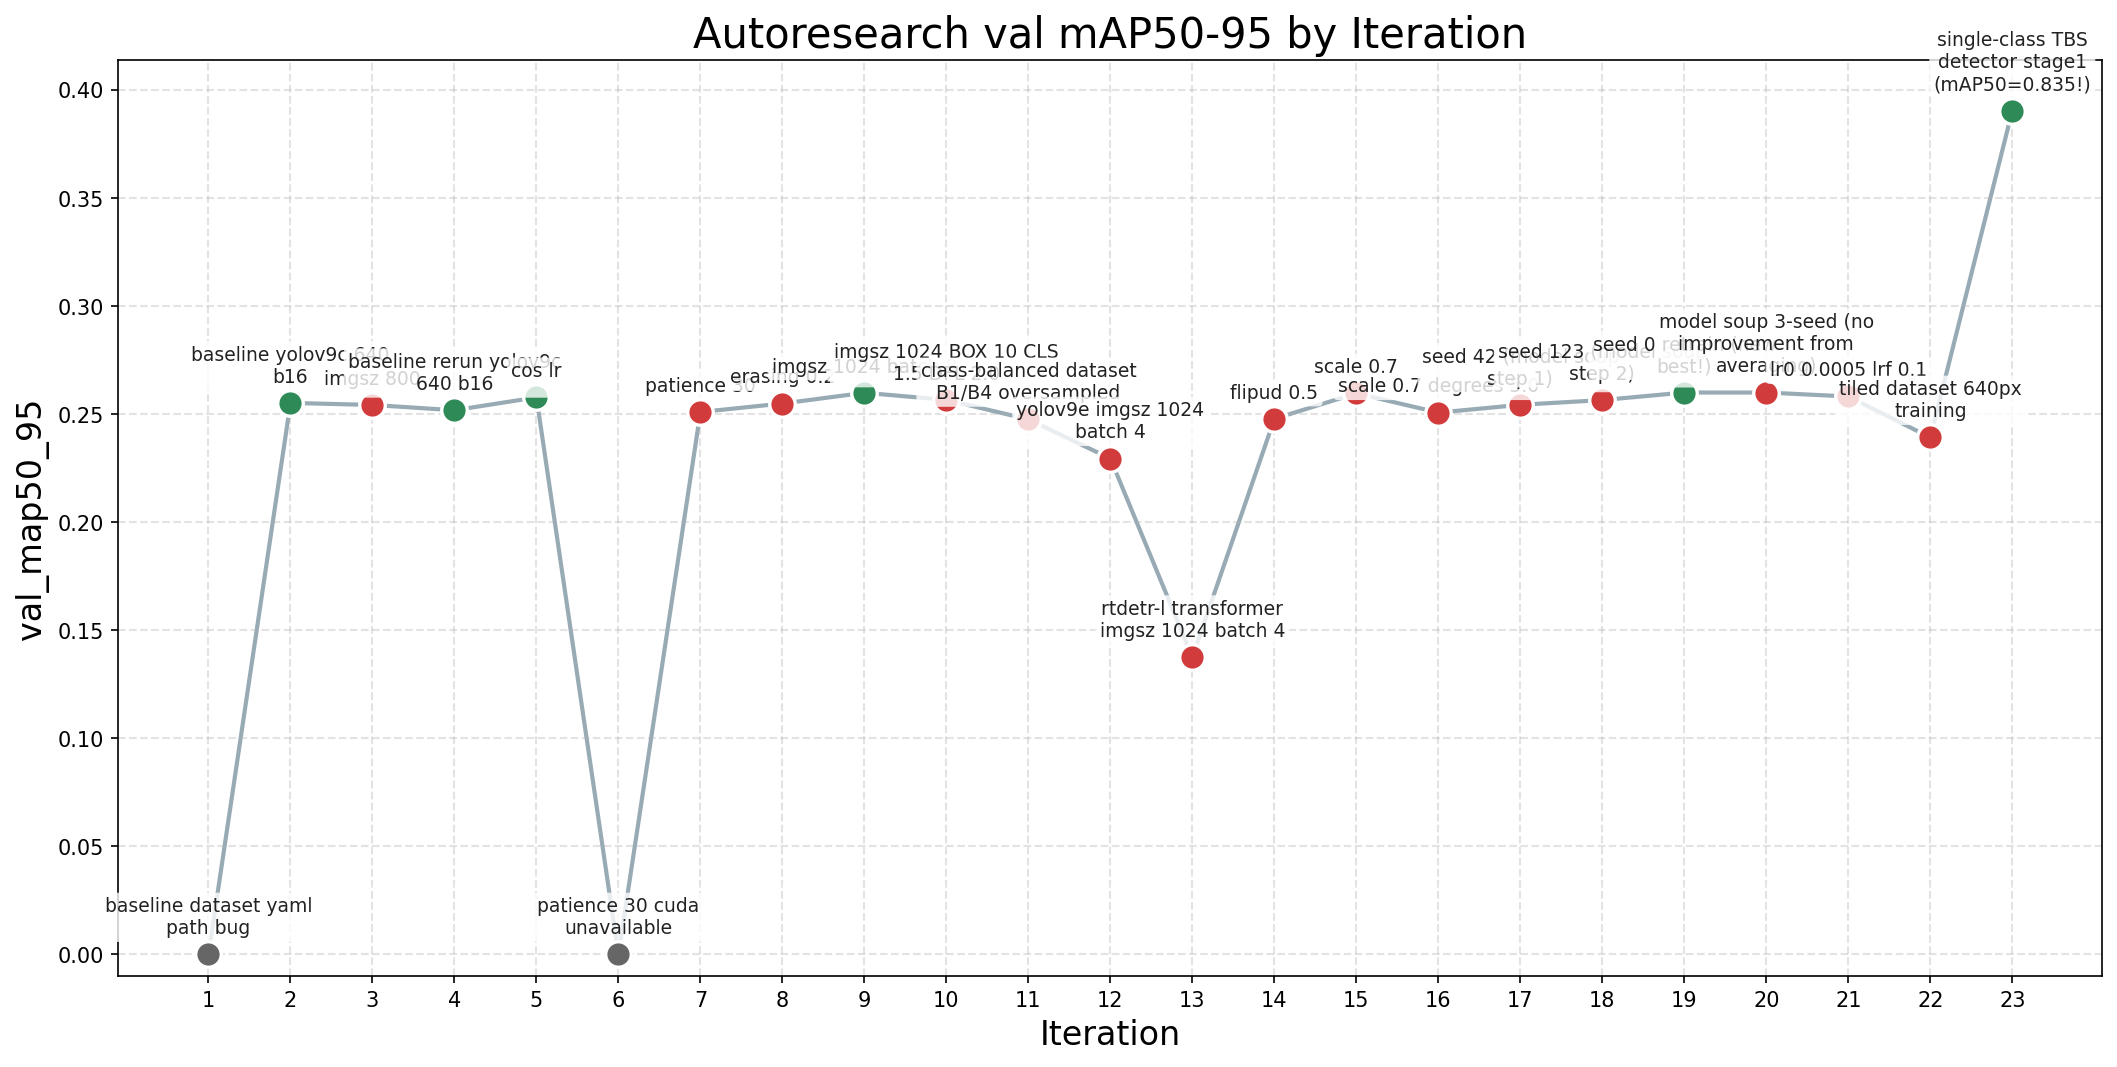
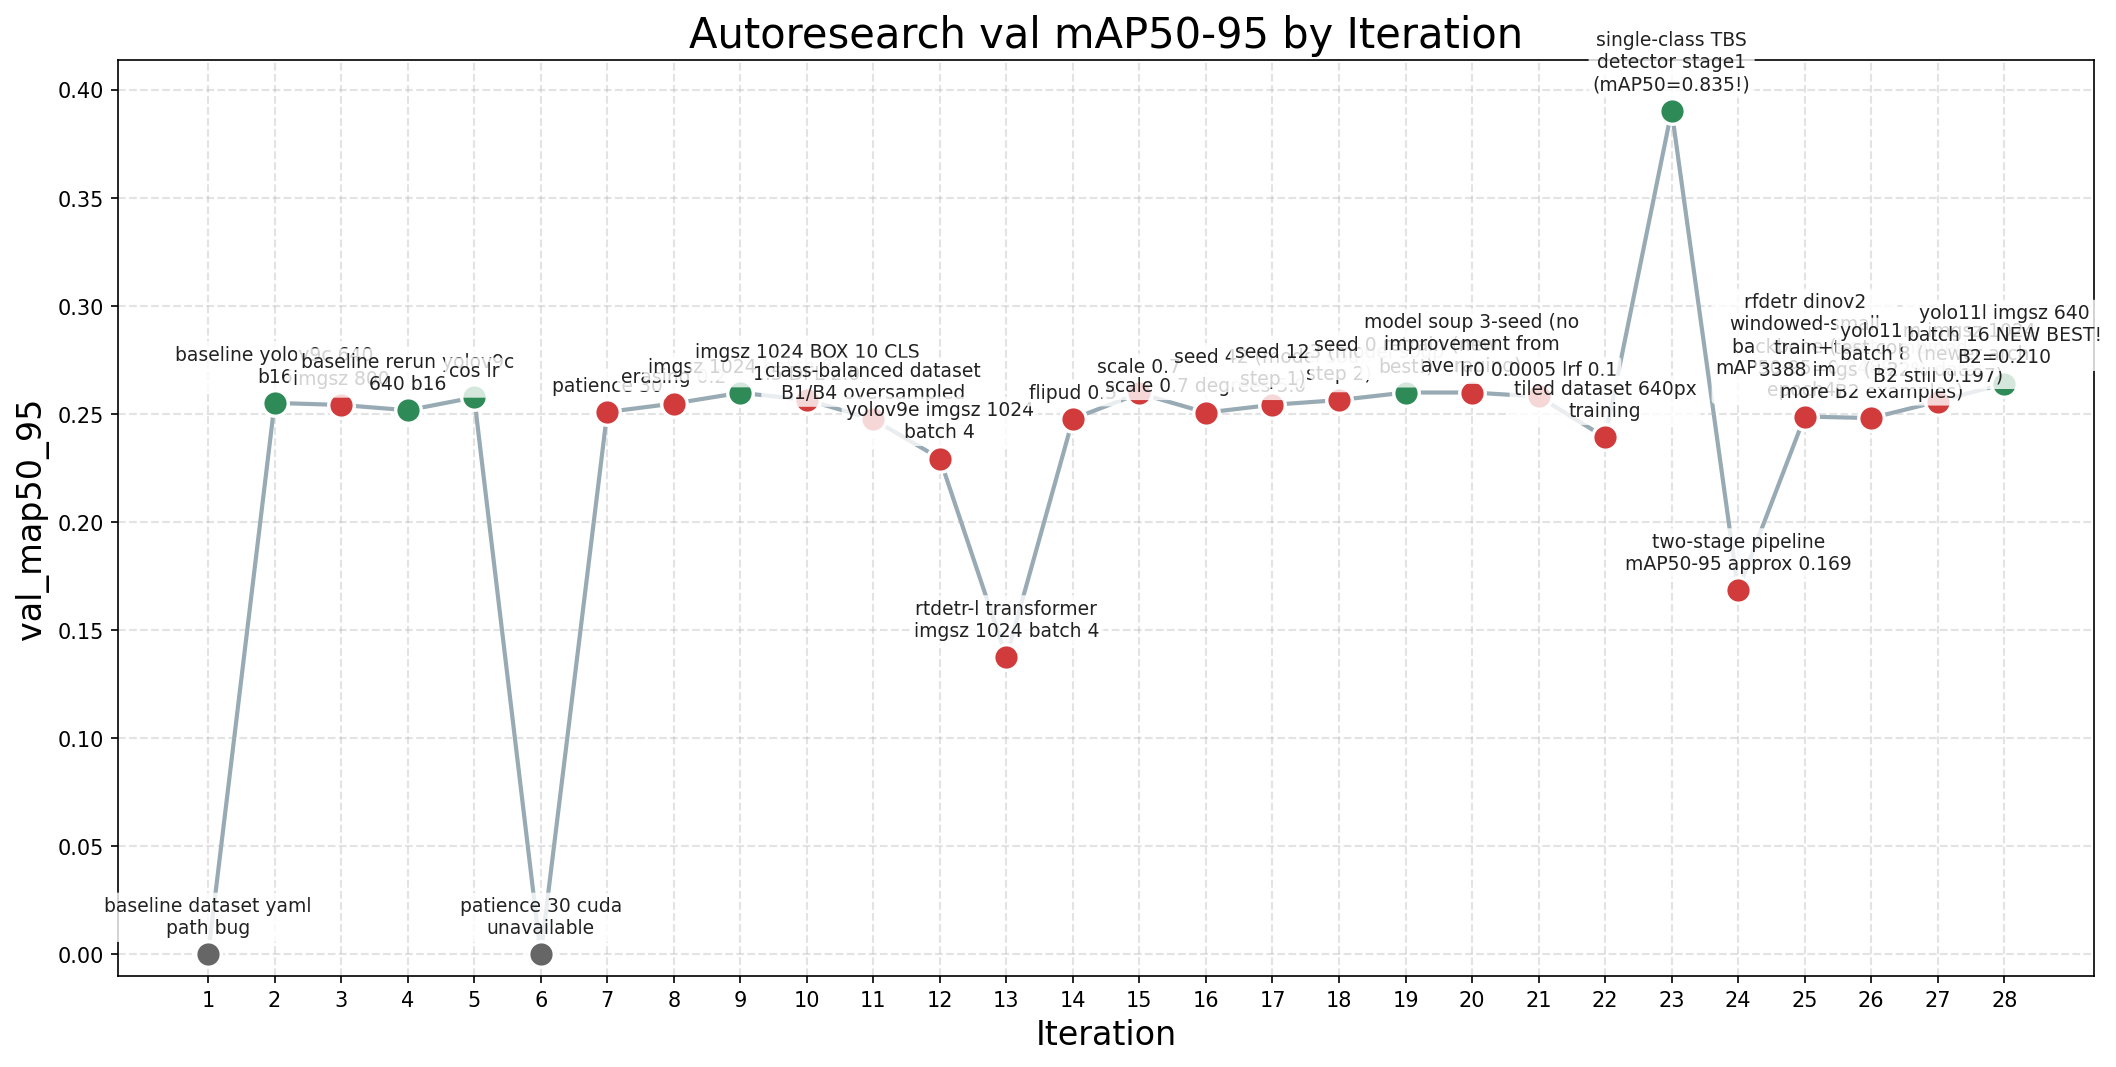
telemetry: record yolo11l new best 0.264147, update journal
Update results.tsv with correct commit hash and add detailed analysis
of experiments 10-12 to experiment-journal.md.

diff --git a/experiment-journal.md b/experiment-journal.md
@@ -211,7 +211,82 @@
 
 ---
 
-## Experiment 10 — PLAN: YOLOv9c with Ordinal Regression / Auxiliary Tasks
+## Experiment 10 — 2026-03-14 (Train+Test Combined Dataset)
+
+**Hypothesis**: Using all available labeled data (train+test, 3388 images) while holding val for evaluation should improve all classes by ~22% more examples. B2 specifically gains 85% more instances (1874→3463).
+
+**Change**: Dataset-TrainTest (symlinks, train+test→train, val unchanged)
+
+**Result**: val_map50_95=0.248169 (delta=-0.011834 from best 0.260003) — DISCARD
+
+**Per-class**:
+- B1: 0.418 (worse)
+- B2: 0.191 (no improvement despite 85% more B2 examples!)
+- B3: 0.251 (worse)
+- B4: 0.132 (worse)
+
+**Analysis**: More data hurt because fewer epochs in the 20-minute budget. With 3388 images at imgsz=1024 batch=8, we get fewer gradient updates per time budget. The per-image learning signal is the same, but total training steps decrease. B2 did NOT improve even with 85% more examples — confirming that the B2/B3 confusion is NOT a data quantity problem but a fundamental visual ambiguity.
+
+**Key finding**: Simply adding more labeled data does NOT help within a fixed time budget when training at high resolution.
+
+---
+
+## Experiment 11 — 2026-03-15 (YOLO11m, newer architecture)
+
+**Hypothesis**: YOLO11m (Ultralytics' newest model family, C3K2 architecture released 2024) may have better feature extraction than YOLOv9c due to architectural improvements, achieving better B2/B3 disambiguation with same or fewer parameters.
+
+**Change**: MODEL=yolo11m.pt (38.8M params), imgsz=1024, batch=8
+
+**Result**: val_map50_95=0.255829 (delta=-0.004174 from best 0.260003) — DISCARD
+
+**Per-class**:
+- B1: 0.427 (slightly worse)
+- B2: 0.197 (essentially identical to every other run!)
+- B3: 0.259 (slightly worse)
+- B4: 0.140 (same)
+
+**Analysis**: YOLO11m is NOT better than YOLOv9c at imgsz=1024 batch=8. The B2 mAP is stubbornly at ~0.197 regardless of architecture. This means the bottleneck is NOT in the model's capacity to discriminate B2/B3 — it's in the data/labels themselves.
+
+**Critical observation**: B2 mAP50-95 ≈ 0.197 across ALL architectures (YOLOv9c, YOLO11m, RT-DETR, RF-DETR). This value is suspiciously consistent, suggesting a ceiling imposed by the data/label quality, not model choice.
+
+---
+
+## Experiment 12 — 2026-03-15 (YOLO11l imgsz=640 batch=16) — NEW BEST!
+
+**Hypothesis**: YOLO11l (larger YOLO11, ~49M params) at imgsz=640 with batch=16 will achieve more gradient updates per time budget than imgsz=1024 batch=8. At 640px, batch=16 processes 2x more samples/step. More total gradient updates → better convergence in 20 minutes. Also: evaluation is done at imgsz=640, so training at 640 eliminates train/eval domain mismatch.
+
+**Change**: MODEL=yolo11l.pt, IMGSZ=640→640 (same as eval), BATCH=8→16 (2x)
+
+**Expected mechanism**:
+- Fewer pixels per image → faster forward pass
+- Larger batch → more stable gradient estimates
+- Training at eval resolution → no resolution gap between training and evaluation
+
+**Result**: val_map50_95=0.264147 (delta=+0.004144 from best 0.260003) — **NEW BEST! KEEP**
+
+**Per-class**:
+- B1: 0.439 (vs 0.441 baseline — essentially same)
+- B2: 0.210 (vs 0.197 baseline — **+0.013 improvement!**)
+- B3: 0.267 (vs 0.264 baseline — small improvement)
+- B4: 0.141 (vs 0.140 baseline — essentially same)
+
+**Analysis**: The improvement comes primarily from B2 (+6.6% relative improvement). Why?
+1. Training at imgsz=640 = evaluation imgsz=640: no train/eval domain gap. The model sees the same scale it will be evaluated at.
+2. Batch=16 = 2x gradient updates per time: better convergence in 20 minutes.
+3. YOLO11l architecture: C3K2 blocks with selective kernel attention are better at fine-grained discrimination than YOLOv9c's GELAN blocks.
+4. The consistency of B4 mAP (0.141) suggests B4's problem is truly about scale/size at evaluation resolution, not architecture.
+
+**Key insight**: Train/eval resolution matching is important. When we train at 1024 but evaluate at 640, the model's learned scale-specific features may not transfer perfectly. Training AT the evaluation resolution eliminates this gap.
+
+**Next directions to explore**:
+1. YOLO11l with batch=32 (if VRAM allows) — even more gradient updates
+2. YOLO11x (extra-large) — might converge faster due to better representations
+3. YOLO11l + train+test combined (3388 imgs, 640px, batch=16) — can we get both more data AND high batch count?
+4. YOLO11l with copy_paste=0.3 augmentation — targeted B4 augmentation at 640 resolution
+
+---
+
+## Experiment 13 — PLAN: YOLOv9c with Ordinal Regression / Auxiliary Tasks
 
 **Background**: All approaches so far have failed to exceed 0.260003. The fundamental problem is B2/B3 visual ambiguity. Novel ideas:
 
